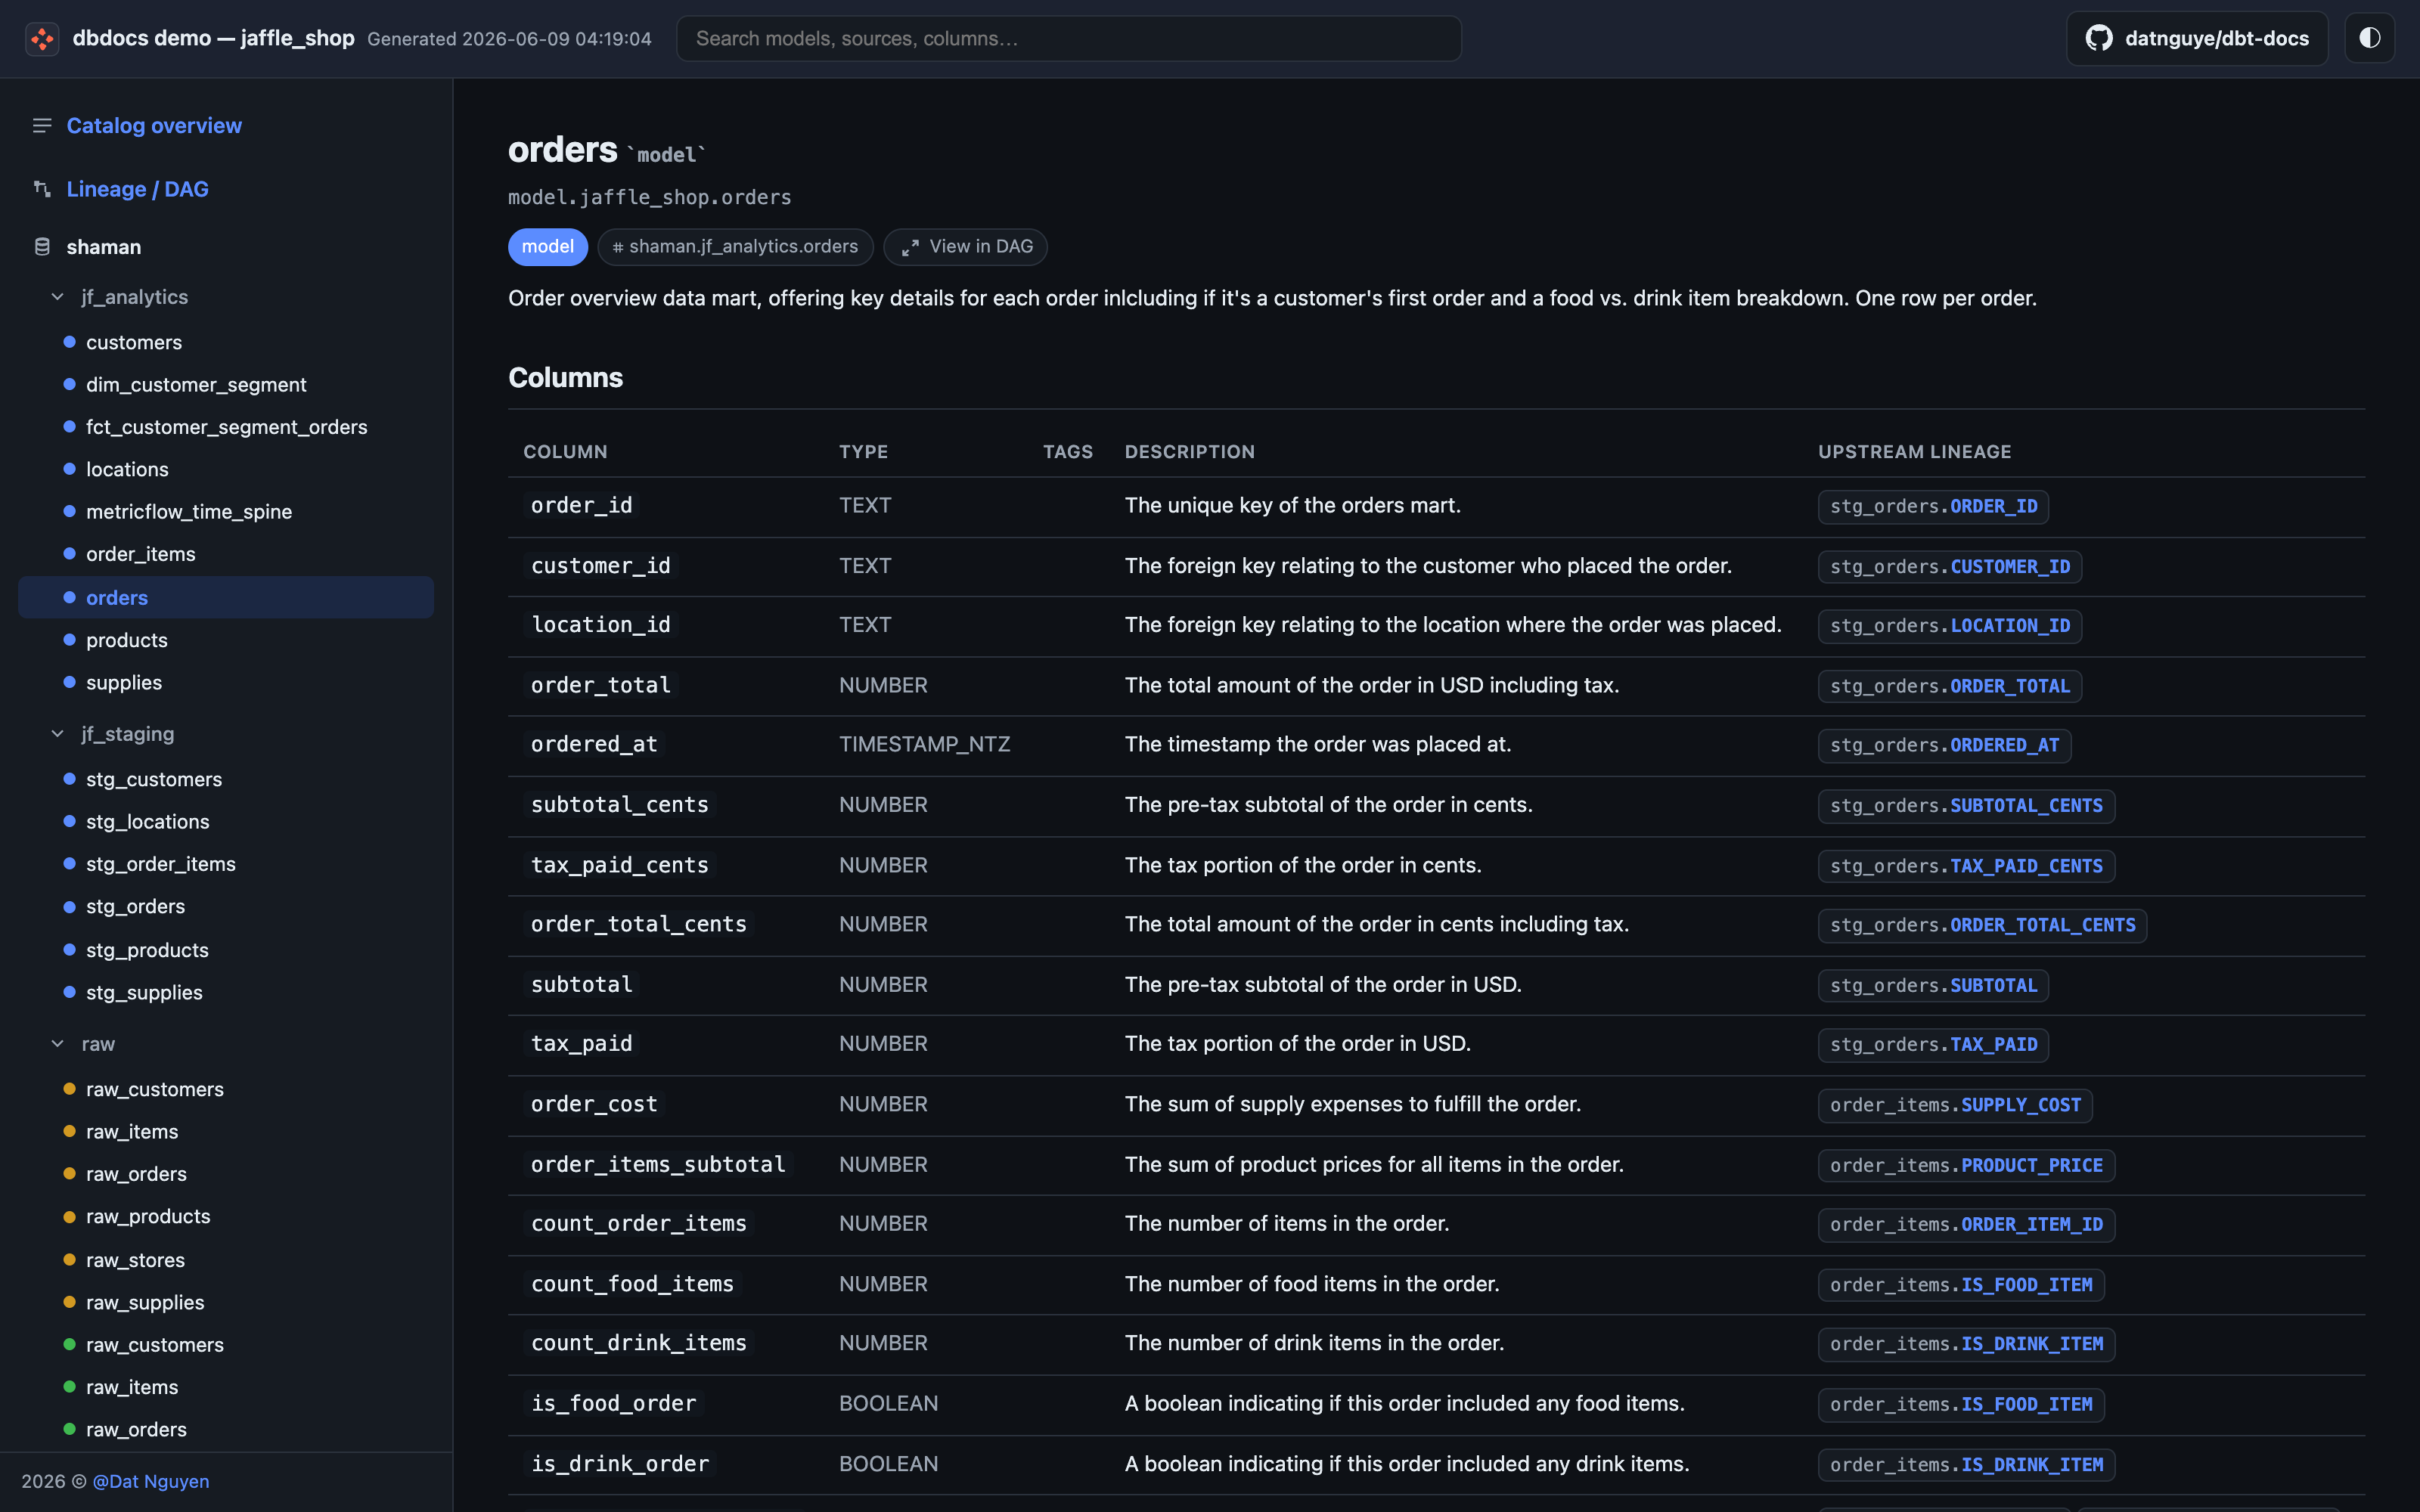
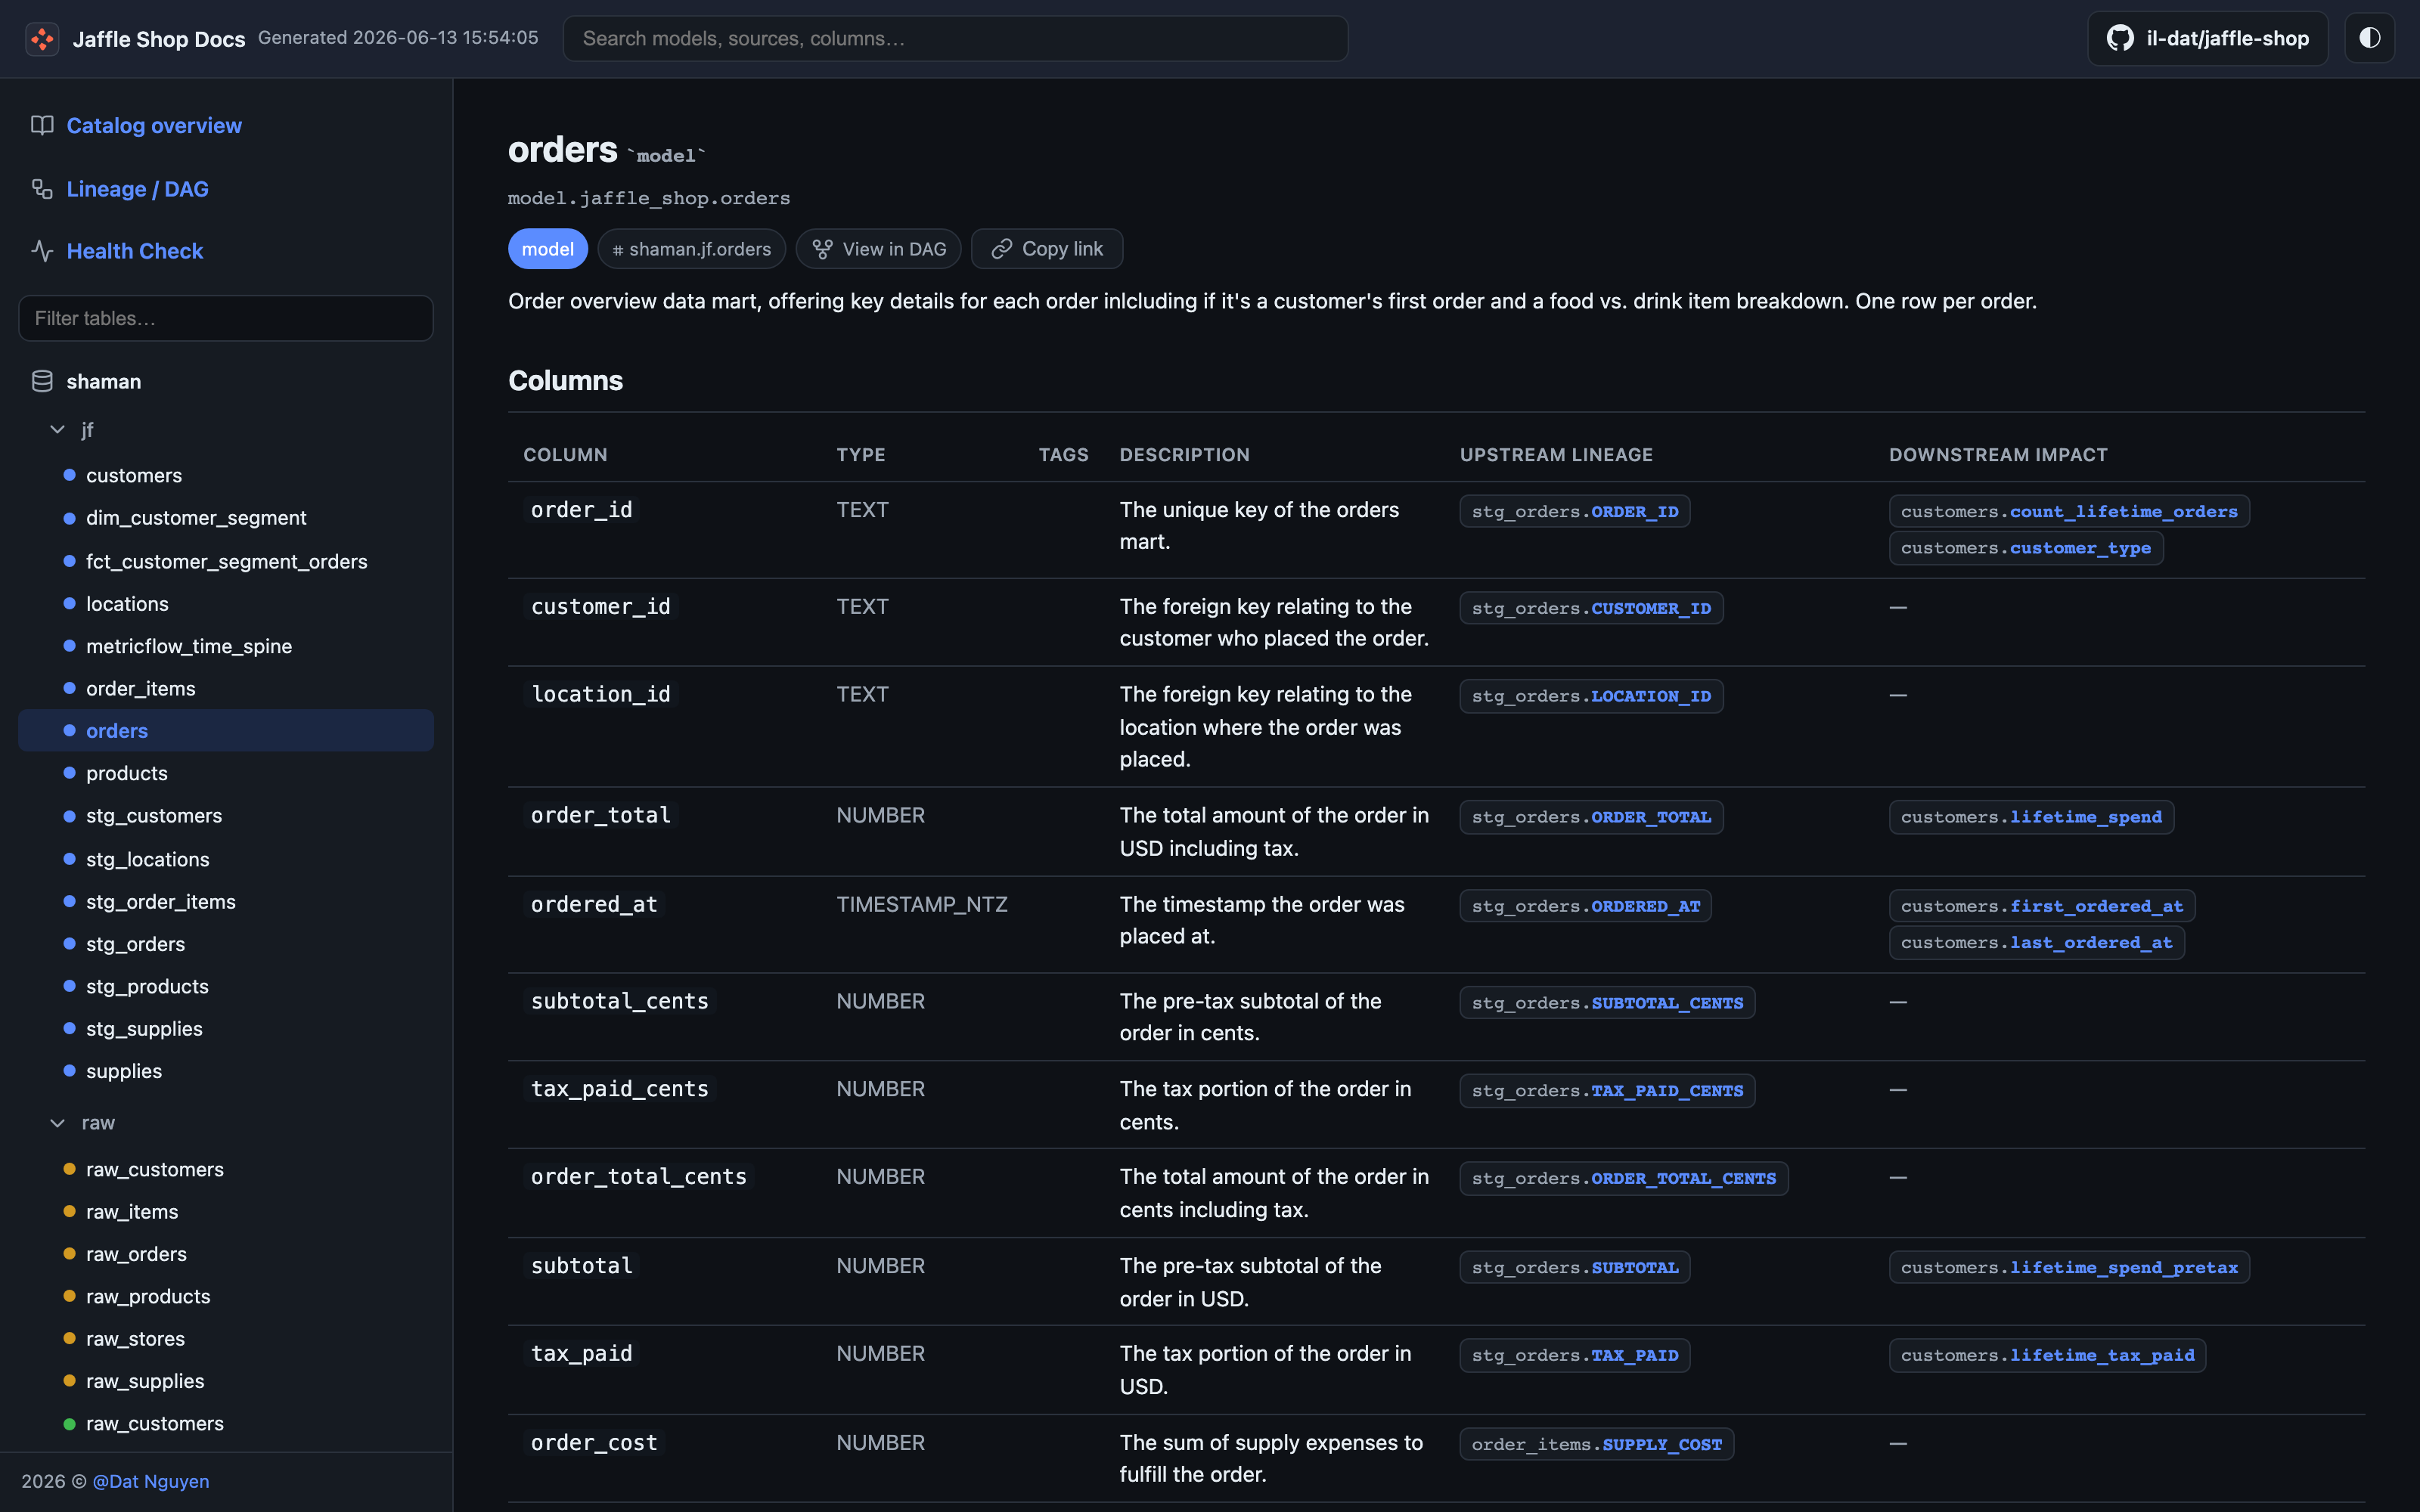
docs: refresh demo screenshots (dark mode) and add Health Check shot

diff --git a/README.md b/README.md
@@ -15,9 +15,9 @@
 
 Turn your dbt artifacts into a self-contained docs site: a browsable catalog, an entity-relationship diagram, an interactive lineage DAG, and **column-level lineage** traced from your compiled SQL — all in one `dbdocs generate`. Serve it with `dbdocs serve`, or deploy versioned builds anywhere a static host will take them.
 
-| Catalog | Model page | Lineage DAG |
-|---|---|---|
-| ![catalog](docs/assets/img/demo-catalog.png) | ![model page](docs/assets/img/demo-model-page.png) | ![dag](docs/assets/img/demo-model-dag.png) |
+| Catalog | Model page | Lineage DAG | Health Check |
+|---|---|---|---|
+| ![catalog](docs/assets/img/demo-catalog.png) | ![model page](docs/assets/img/demo-model-page.png) | ![dag](docs/assets/img/demo-model-dag.png) | ![health check](docs/assets/img/demo-health.png) |
 
 ## Why dbdocs?
 

diff --git a/docs/index.md b/docs/index.md
@@ -30,6 +30,11 @@ the catalog, the lineage DAG, the ERD, and column-level lineage.
 </a>
 <p align="center"><em>Per-model detail — every column with its type, description, and <strong>upstream column-level lineage</strong> traced from compiled SQL.</em></p>
 
+<a href="/latest/demo/latest/#/health" target="_blank">
+  <img src="assets/img/demo-health.png" alt="The dbdocs Health Check page scoring six dbt-project-evaluator dimensions" loading="lazy">
+</a>
+<p align="center"><em>Project <strong>Health Check</strong> — a scorecard across the six <a href="https://github.com/dbt-labs/dbt-project-evaluator">dbt-project-evaluator</a> dimensions, derived straight from your dbt artifacts.</em></p>
+
 ---
 
 ## What you get